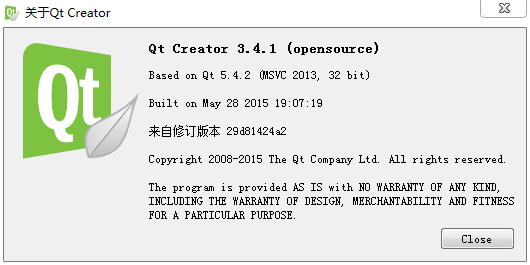
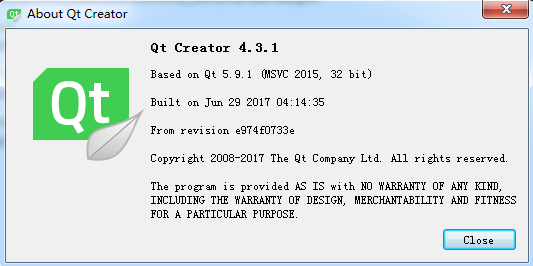
Update Qt development tool to qt-opensource-windows-x86-5.9.1.exe

Changed region(s): [[0.0, 0.0, 1.0, 1.0], [0.2717, 0.1509, 0.7245, 0.2113], [0.2717, 0.2415, 0.6943, 0.3019]]

diff --git a/doc/ide/how-to-fetch.md b/doc/ide/how-to-fetch.md
@@ -1,5 +1,5 @@
 IDE information:
 
-Version: **qt-opensource-windows-x86-mingw491_opengl-5.4.2.exe**
+Version: **qt-opensource-windows-x86-5.9.1.exe**
 
-Download: http://download.qt.io/new_archive/qt/5.4/5.4.2/qt-opensource-windows-x86-mingw491_opengl-5.4.2.exe
+Download:https://download.qt.io/archive/qt/5.9/5.9.1/
